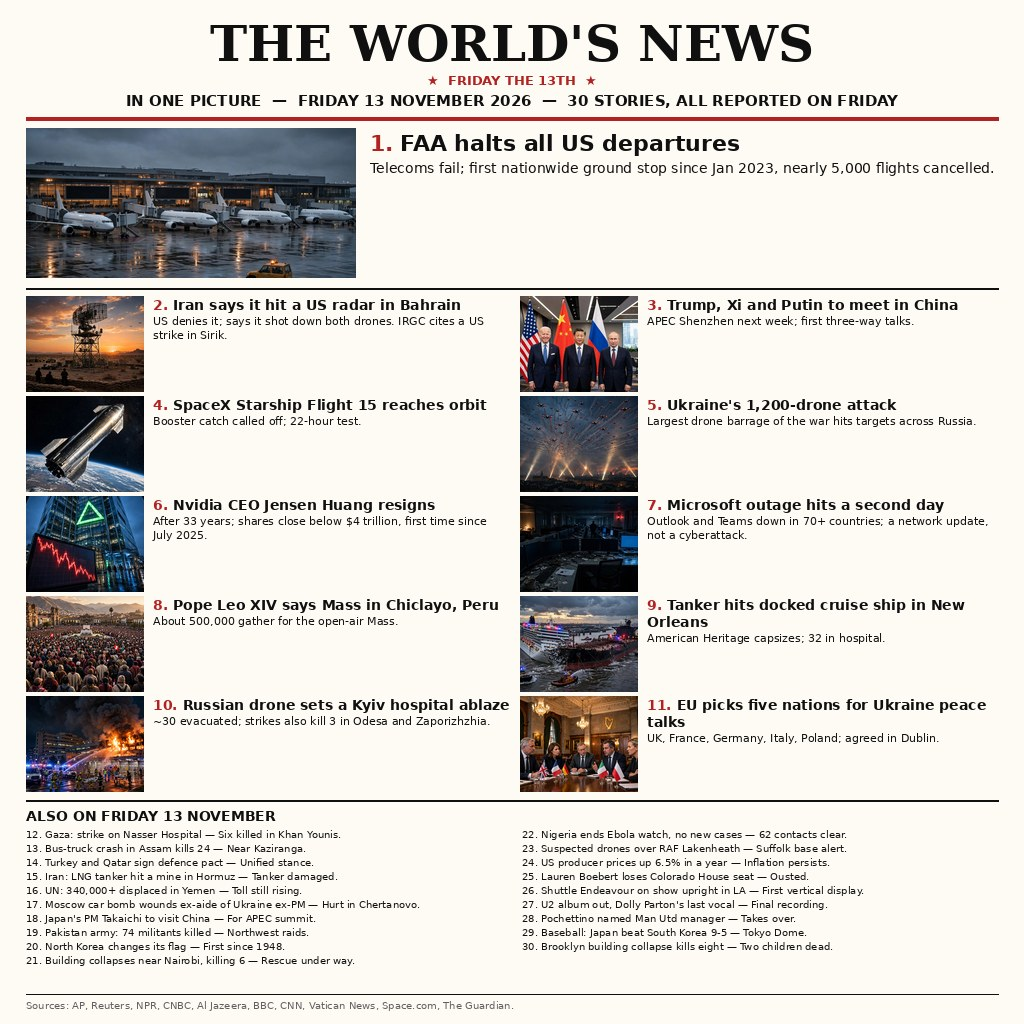
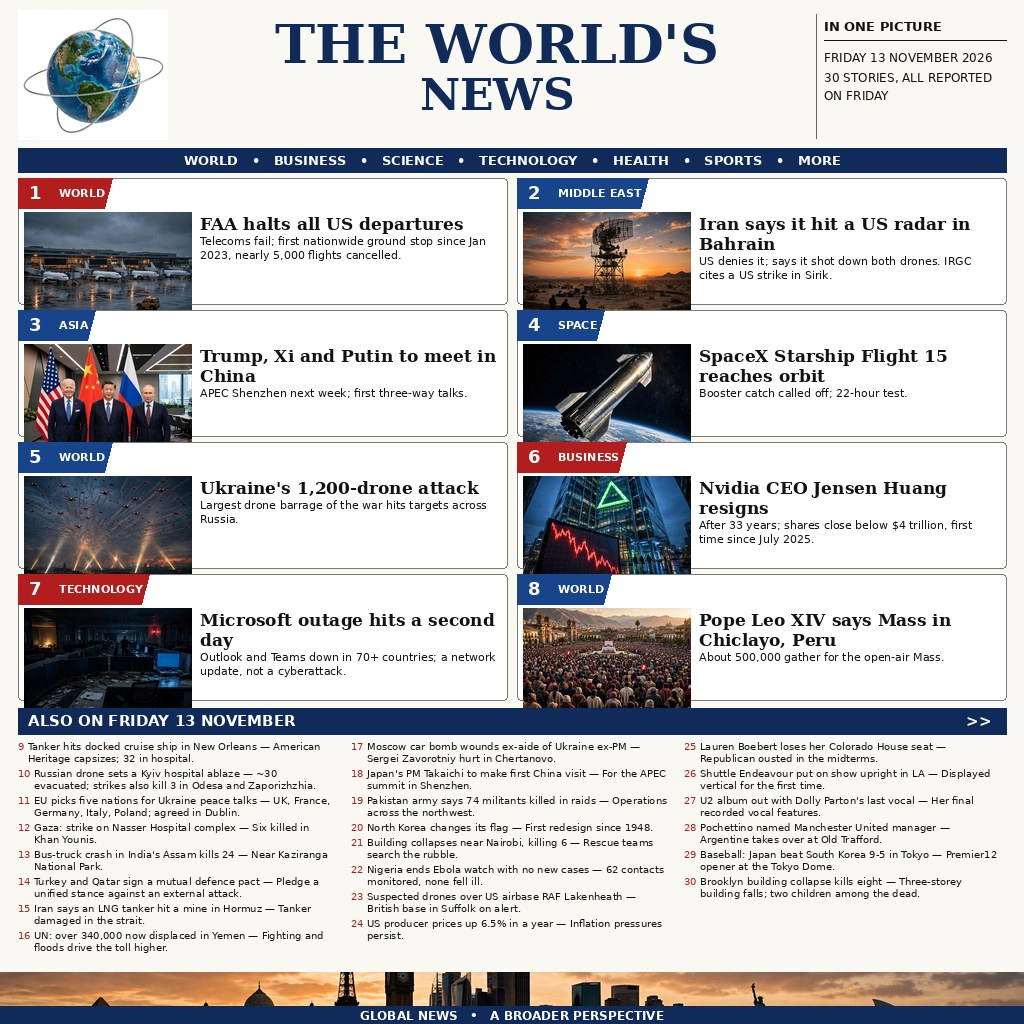
Add files via upload

diff --git a/main.py b/main.py
@@ -2,18 +2,18 @@
 """news-image-01 v2: write one image summing up the world's news of
 Friday 13 November 2026 to /output/entry.png.
 
-The picture is a newspaper front page (entry.png, bundled with this
-program): a masthead dated FRIDAY 13 NOVEMBER 2026, a HERO lead story
-(FAA halts all US departures, large image + big headline), 10 more
-illustrated stories (Iran radar/Bahrain, Trump-Xi-Putin APEC, SpaceX
-Starship Flight 15, Ukraine's 1,200-drone attack, Nvidia CEO Jensen
-Huang resigns, Microsoft 365 outage day 2, Pope Leo XIV in Chiclayo,
-tanker hits cruise ship in New Orleans, Russian drone sets a Kyiv
-hospital ablaze, EU picks five nations for Ukraine peace talks) plus
-19 more stories in the "ALSO ON FRIDAY" list — 30 stories in total,
-all reported on Friday 13 November 2026. The program copies it
-byte-for-byte to $MAKEFUN_OUTPUT_DIR/entry.png and verifies the size
-and format.
+The picture is a classic newspaper front page (entry.png, bundled with
+this program): a globe icon + "THE WORLD'S NEWS" masthead + a dark-blue
+nav bar, 8 main story cards (FAA halts all US departures, Iran says it
+hit a US radar in Bahrain, Trump-Xi-Putin to meet in China, SpaceX
+Starship Flight 15 reaches orbit, Ukraine's 1,200-drone attack, Nvidia
+CEO Jensen Huang resigns, Microsoft 365 outage day 2, Pope Leo XIV
+says Mass in Chiclayo), each with a numbered tag + category ribbon +
+image + headline + explainer, plus 22 more stories in the "ALSO ON
+FRIDAY" list in 3 columns — 30 stories in total, all reported on
+Friday 13 November 2026 — and a world-landmarks skyline strip at the
+bottom. The program copies it byte-for-byte to
+$MAKEFUN_OUTPUT_DIR/entry.png and verifies the size and format.
 """
 import os
 import shutil

diff --git a/README.md b/README.md
@@ -1,14 +1,15 @@
-# news-image-01 — v2 newspaper
+# news-image-01 — v4 classic front page
 
 One image summing up the world's news of Friday 13 November 2026:
-a newspaper front page with 30 stories — a HERO lead story (FAA halts
-all US departures) plus 10 more illustrated stories (Iran radar in
-Bahrain, Trump-Xi-Putin APEC, SpaceX Starship Flight 15, Ukraine's
-1,200-drone attack, Nvidia CEO resigns, Microsoft 365 outage day 2,
-Pope Leo XIV in Peru, tanker hits cruise ship in New Orleans, Russian
-drone sets a Kyiv hospital ablaze, EU picks five nations for Ukraine
-peace talks) plus 19 more stories in the "ALSO ON FRIDAY" list. All
-facts verified against real reporting of the day.
+a classic newspaper front page with 30 stories — a globe icon +
+"THE WORLD'S NEWS" masthead + dark-blue nav bar, 8 main story cards
+(FAA halts all US departures, Iran radar in Bahrain, Trump-Xi-Putin
+APEC, SpaceX Starship Flight 15, Ukraine's 1,200-drone attack, Nvidia
+CEO resigns, Microsoft 365 outage day 2, Pope Leo XIV in Peru), each
+with a numbered tag + category ribbon + image + headline + explainer,
+plus 22 more stories in the "ALSO ON FRIDAY" list in 3 columns, and
+a world-landmarks skyline strip at the bottom. All facts verified
+against real reporting of the day.
 
 `main.py` copies the pre-composed `entry.png` to
 `$MAKEFUN_OUTPUT_DIR/entry.png` and verifies size and format.
